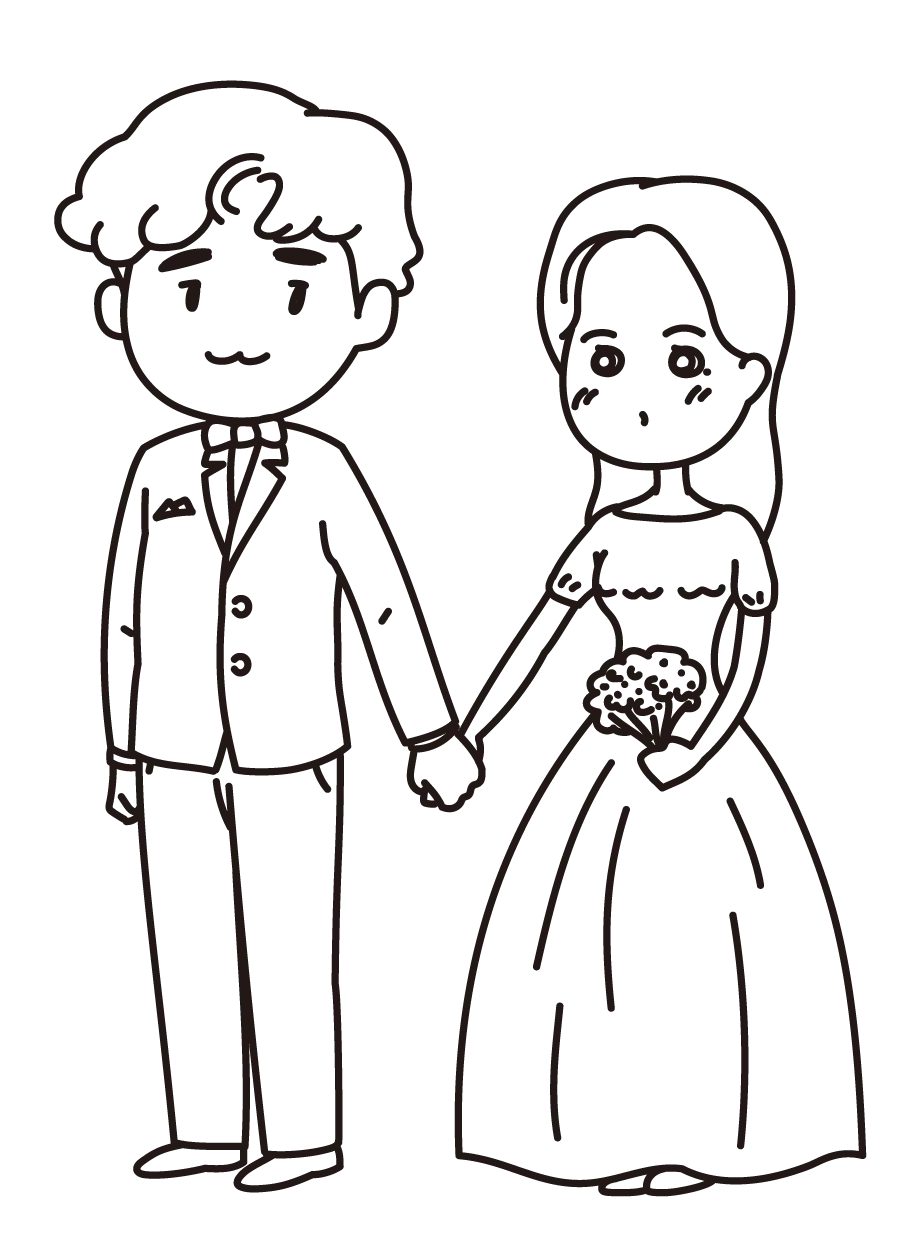
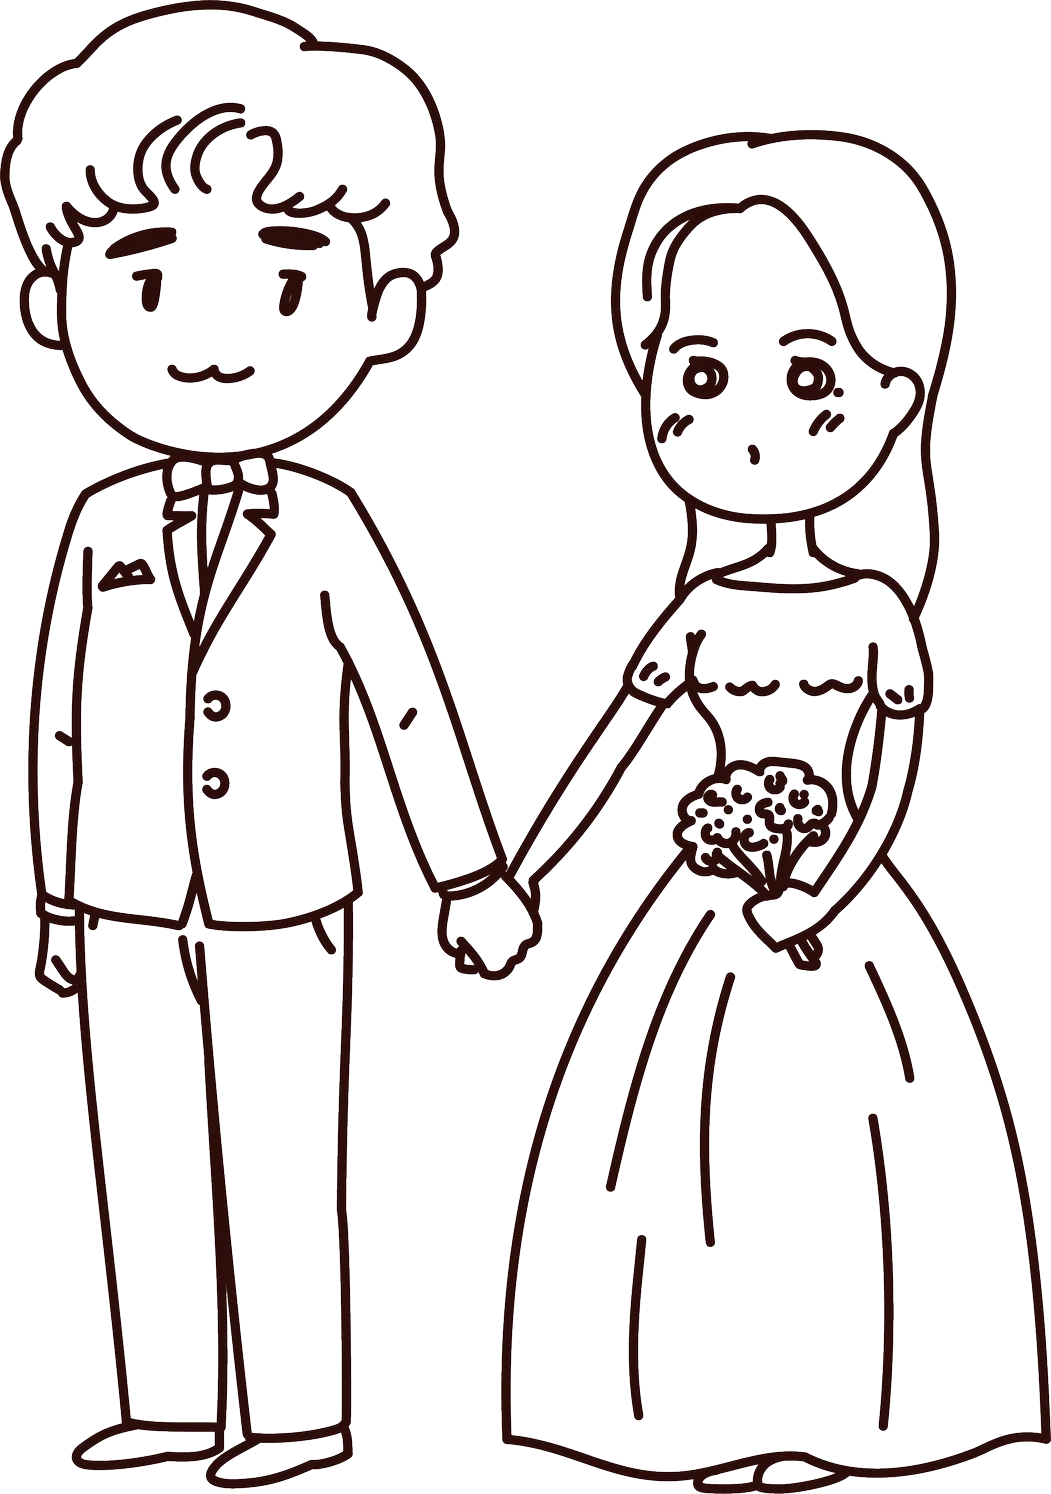
0516

diff --git a/assets/scss/main.scss b/assets/scss/main.scss
@@ -3,7 +3,7 @@
     overflow:hidden;
     width:100%;
     height:100dvh;
-    background-color:#220a04;
+    background-color:#2c0e07;
     @media(width > 470px){
         max-width:470px;
         left:50%;
@@ -23,7 +23,7 @@
 
 .content{
     font-family:'GangwonEdu_OTFBoldA';
-    color:#491A0D;
+    color:#2c0e07;
     overflow:hidden;
     width:100%;
     background-color:#fff;
@@ -34,7 +34,7 @@
     font-size:1.4rem;
     font-weight:400;
     padding-left:2%;
-    background-color:#491A0D;
+    background-color:#2c0e07;
     color:#fff;
     display:flex;
     align-items:center;
@@ -88,7 +88,7 @@
     text-align:left;
     letter-spacing:-0.4rem;
     line-height:6.4rem;
-    padding:2% 0 4% 0;
+    padding:1% 0 4% 0;
     @media(height <= 700px){
         font-size:2.6rem;
     }
@@ -97,10 +97,10 @@
 .subtitle{
     width:100%;
     height:4%;
-    font-size:2.4rem;
+    font-size:1.7rem;
     text-align:left;
     margin-left:0.6rem;
-    line-height:2.4rem;
+    line-height:2.6rem;
     position:relative;
     @media(height <= 700px){
         font-size:1.4rem;
@@ -175,7 +175,7 @@
 .bottom_line{
     width:100%;
     height:4%;
-    background-color:#381308;
+    background-color:#2c0e07;
     position:absolute;
     bottom:0;
 }
@@ -193,7 +193,7 @@
 .bottom_space{
     width:100%;
     height:12%;
-    background-color:#220a04;
+    background-color:#2c0e07;
     color:#fff;
     font-weight:200;
     font-size:1.8rem;
@@ -205,9 +205,10 @@
         position:absolute;
         bottom:30%;
         left:50%;
+        font-size:2rem;
         transform:translate(-50%,0);
         padding:0 6px 0 6px;
-        line-height:4rem;
+        line-height:3rem;
         border-bottom:solid 1px #fff;
     }
 
@@ -241,7 +242,7 @@
 .empty{
     width:100%;
     height:40px;
-    background-color:#220a04;
+    background-color:#2c0e07;
 }
 
 
@@ -394,12 +395,12 @@
 }
 .footer_title{
     font-family:'GangwonEdu_OTFBoldA';
-    color:#491A0D;
+    color:#2c0e07;
     width:100%;
-    height:50px;
-    line-height:50px;
+    height:auto;
+    line-height:3rem;
     text-align:center;
-    font-size:1.6rem;
+    font-size:2rem;
     font-weight:600;
     margin-top:20px;
 }
@@ -411,7 +412,7 @@
     justify-content: center;
 }
     .footer_image img{
-        width:70%;
+        width:60%;
     }
 
 .footer_link{
@@ -423,7 +424,7 @@
     font-size:1.6rem;
     font-weight:600;
     margin-top:20px;
-    background-color:#491A0D;
+    background-color:#2c0e07;
     color:#fff;
     border-radius:5px;
 }
@@ -442,9 +443,9 @@
     height:50px;
     line-height:50px;
     text-align:center;
-    font-size:1.6rem;
+    font-size:1.4rem;
     font-weight:100;
-    color:#491A0D;
+    color:#999;
     position:relative;
     width:auto;
 }
@@ -455,7 +456,7 @@
         left:50%;
         transform:translate(-50%,0);
         width:100%;
-        background-color:#491A0D;
+        background-color:#999;
         height:1px;
     }
 

diff --git a/pages/index.vue b/pages/index.vue
@@ -12,11 +12,18 @@
             <div class="title_box">
                 <div class="title">HAPPY<br>Wedding Day</div>
             </div>
-            <div class="subtitle"><p class="subtitle_txt">United by ten years of love,
-                <br>we now promise a lifetime together.</p>
+            <div class="subtitle">
+                <p class="subtitle_txt">
+                    10년의 연애를 끝으로 이제 평생을 약속하려 합니다.
+                    <br>이 뜻깊은 자리에 소중한 분들을 초대합니다.
+                </p>
+                <!--<p class="subtitle_txt">
+                    United by ten years of love,
+                    <br>we now promise a lifetime together.
+                </p>-->
             </div>
             <div class="maincover">
-                <img src="~/assets/images/maincover_0515.webp" alt="maincover">
+                <img src="~/assets/images/maincover.webp" alt="maincover">
             </div>
             <div class="people">윤 종문 · 황 인경 의 차남 <span class="b">주현</span></div>
             <div class="people">오 연배 · 김 은숙 의 차녀 <span class="b">영경</span></div>
@@ -147,14 +154,18 @@
         </div>
         <div class="content05 section">
             <div class="footer_title">
-                꼭 오셔서 자리를 빛내주세요 :D
+                <p>
+                    부부로서 첫걸음을 내딛는 뜻깊은 자리에
+                    <br>고마운 분들과 함게하고 싶습니다.
+                    <br>귀한 걸음으로 함께 축복해 주세요.
+                </p>
             </div>
             <div class="footer_image">
-                <img src="~/assets/images/maincover_0515.webp"/>
+                <img src="~/assets/images/maincover.webp"/>
             </div>
             <div class="footer_link" @click="copyLink('https://wedding0823.netlify.app/')">모바일 청첩장 공유하기<i class="ri-external-link-line"></i></div>
             <div class="footer_copyright">
-                Copyright Crayon_000 All rights reserved.
+                Copyright 2025. JH & YK. All right reserved.
             </div>
             <div class="footer_space"></div>
         </div>
